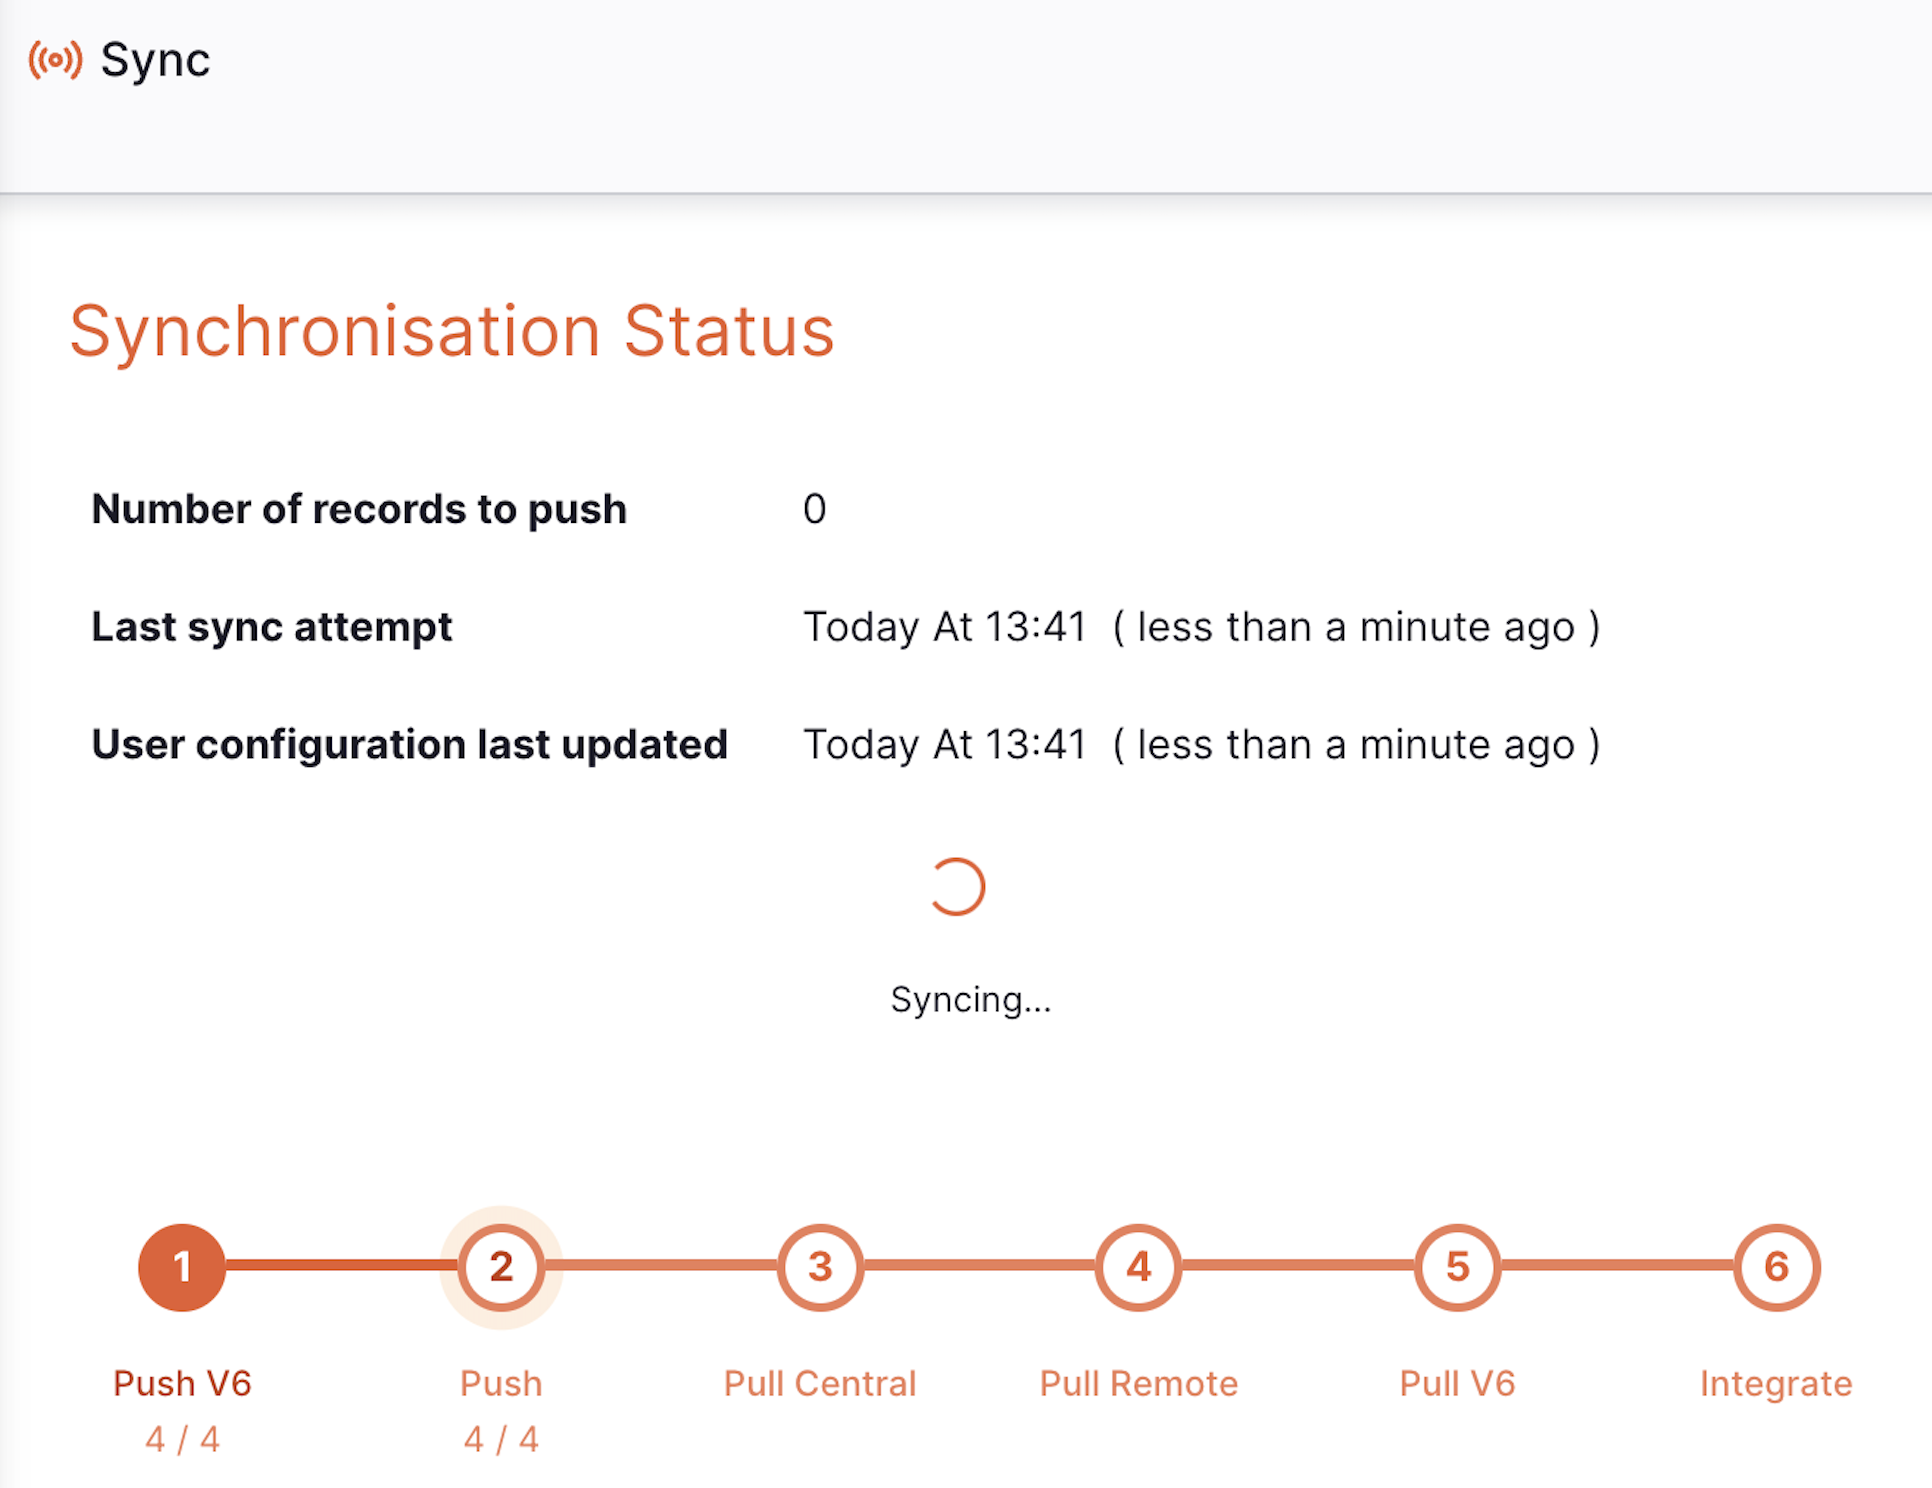
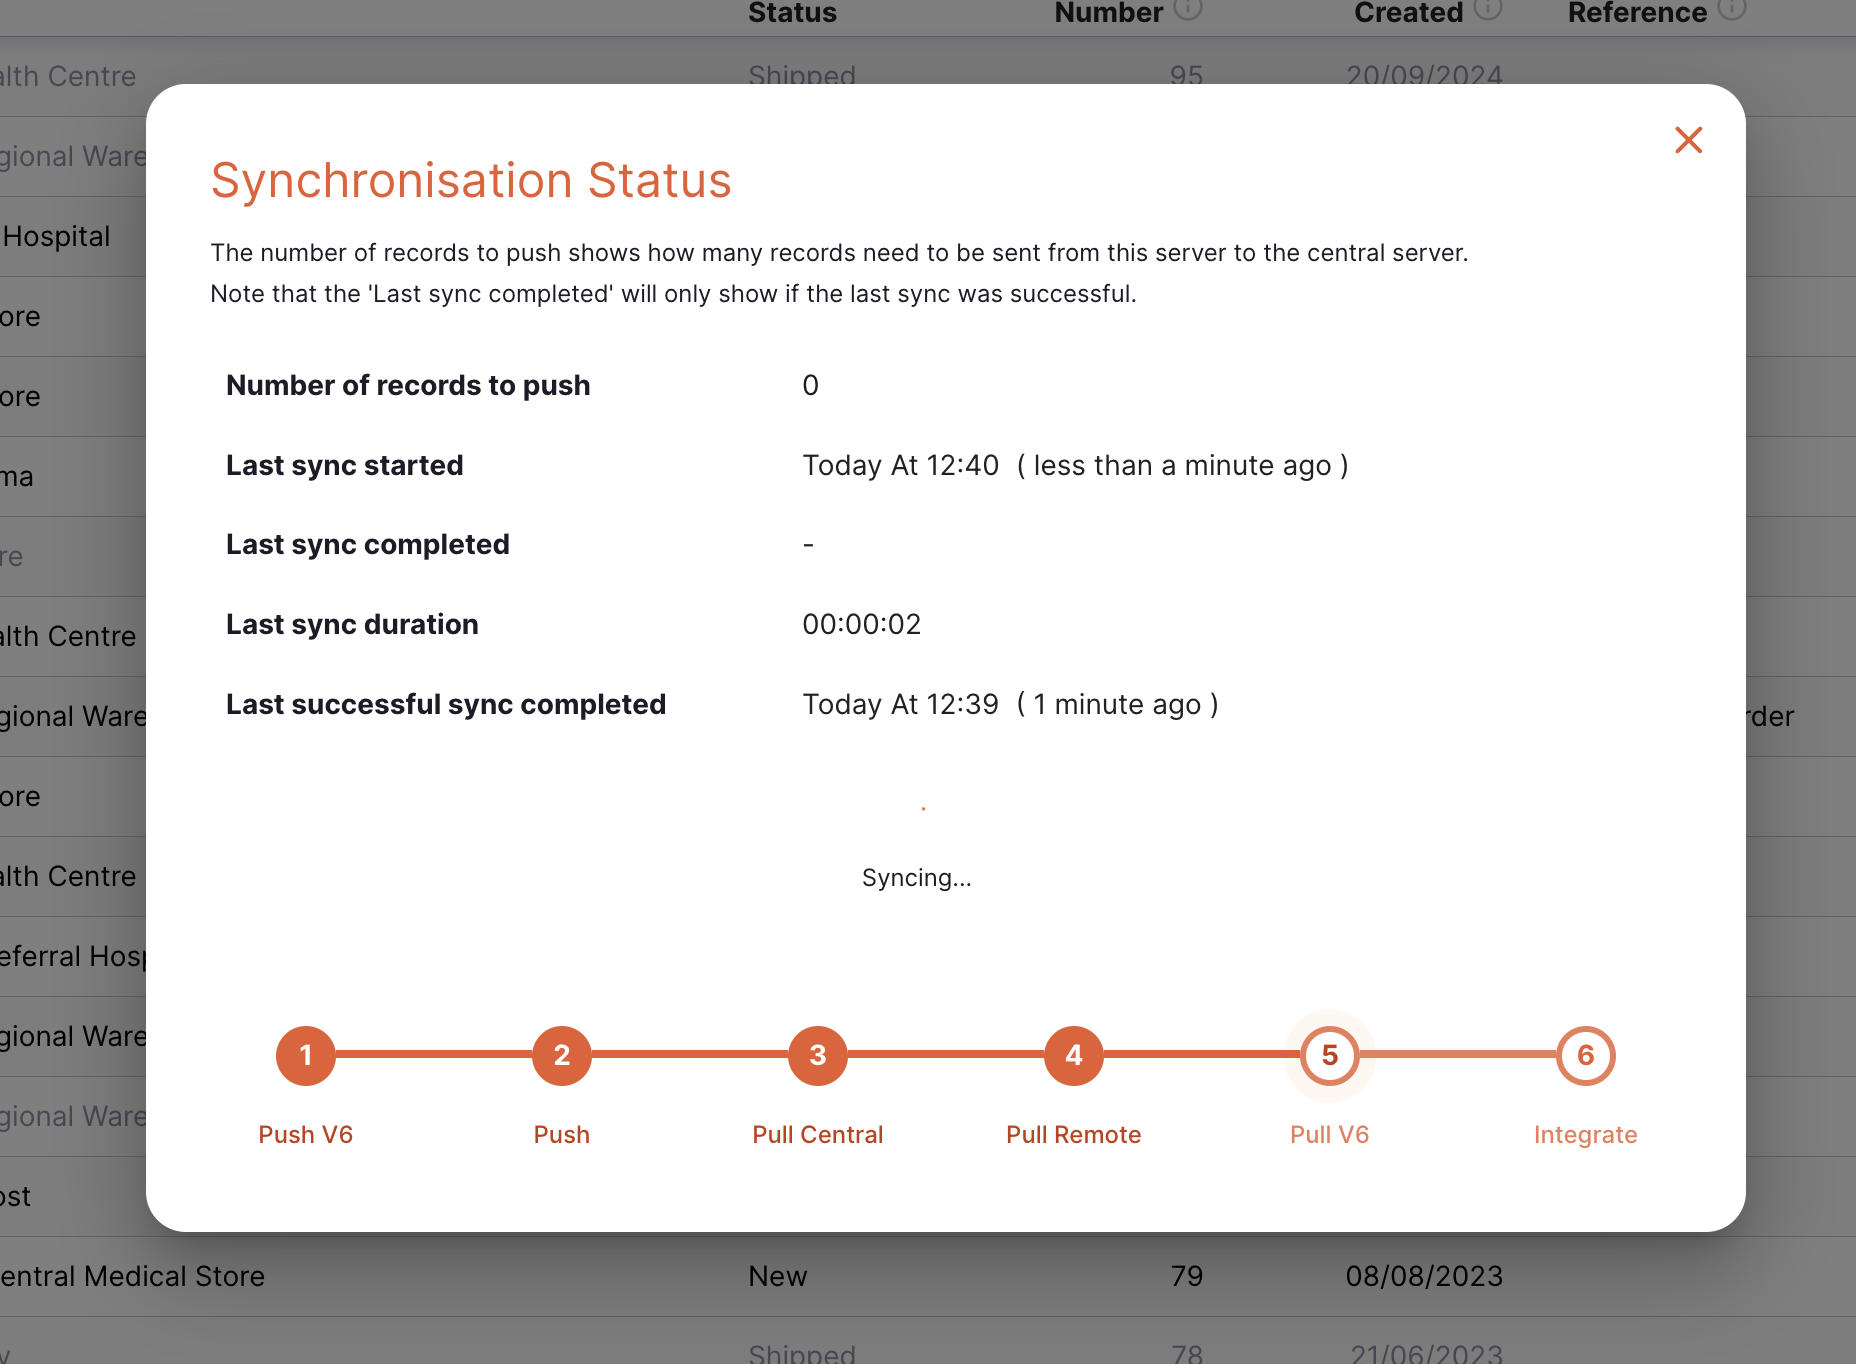
from 2f04523ab6511395a85966eb8393dd243abe0d08

diff --git a/content/docs/sync/synchronisation.md b/content/docs/sync/synchronisation.md
@@ -16,15 +16,19 @@ top = false
 
 ## Viewing the synchronisation status
 
-To view the synchronisation status, go to `Sync` in the lower section of the navigation panel:
+To view the synchronisation status, click `Sync` in the lower section of the navigation panel or press CTRL+ALT+S (CTRL+OPT+S if using a mac) on your keyboard:
 
 ![sync: nav](/docs/sync/images/sync_nav.png)
 
-The page shows the number of records waiting to be pushed to the central servers, and the time that the last sync happened.
+The window shows the number of records waiting to be pushed to the central servers, and the time that the last sync happened.
 
 ![sync: status](/docs/sync/images/sync_status.png)
 
 As of v2.0.0, your Open mSupply server actually syncs to two central servers! The `Push V6` and `Pull V6` steps transfer data to and from the Open mSupply central server, which you can read more about [here](../../getting_started/central). The `Push`, `Pull Central` and `Pull Remote` steps are syncing with an mSupply central server.
+
+To close the window you can press `Esc` on your keyboard or click the close button which is at the top right:
+
+![sync: status](/docs/sync/images/sync_status_close.png)
 
 ## Manual synchronisation
 
@@ -40,16 +44,16 @@ The records will then be pushed to _either_ the Open mSupply central server (V6)
 
 So in the above example, 4 sync records are being sent in total, not 8.
 
-Here is the complete process in action. You'll notice that most of the sync steps are very quick, though it depends on how many records you have to sync:
-
-<p><img src="/docs/sync/images/sync.gif" alt=:"sync: manual" width="800" /></p>
-
 If any errors are encountered during the sync progress you will see these on this screen too. Hover over the `i` icon to see additional details.
 
 ![sync: error](/docs/sync/images/sync_error.png)
 
 ## Server details
 
-At the top right of the `Sync` page the current server URL is shown, along with a QR code. The code contains the server URL and can be used to easily configure [mSupply Cold Chain](http://127.0.0.1:1111/coldchain/introduction/) when synchronising with Open mSupply. If you are having trouble scanning the code, you can click (or press, if using a tablet) the code to display a larger version.
+At the top right of the `Settings` page the current server URL is displayed, along with a QR code. The code contains the server URL and can be used to easily configure [mSupply Cold Chain](/coldchain/introduction/) when synchronising with Open mSupply.
 
-![sync: manual](/docs/sync/images/expand_qr.gif)
+![sync: manual](/docs/sync/images/settings_page.png)
+
+If you are having trouble scanning the code, you can click (or press, if using a tablet) the code to display a larger version.
+
+![sync: manual](/docs/sync/images/qr_expanded.png)
